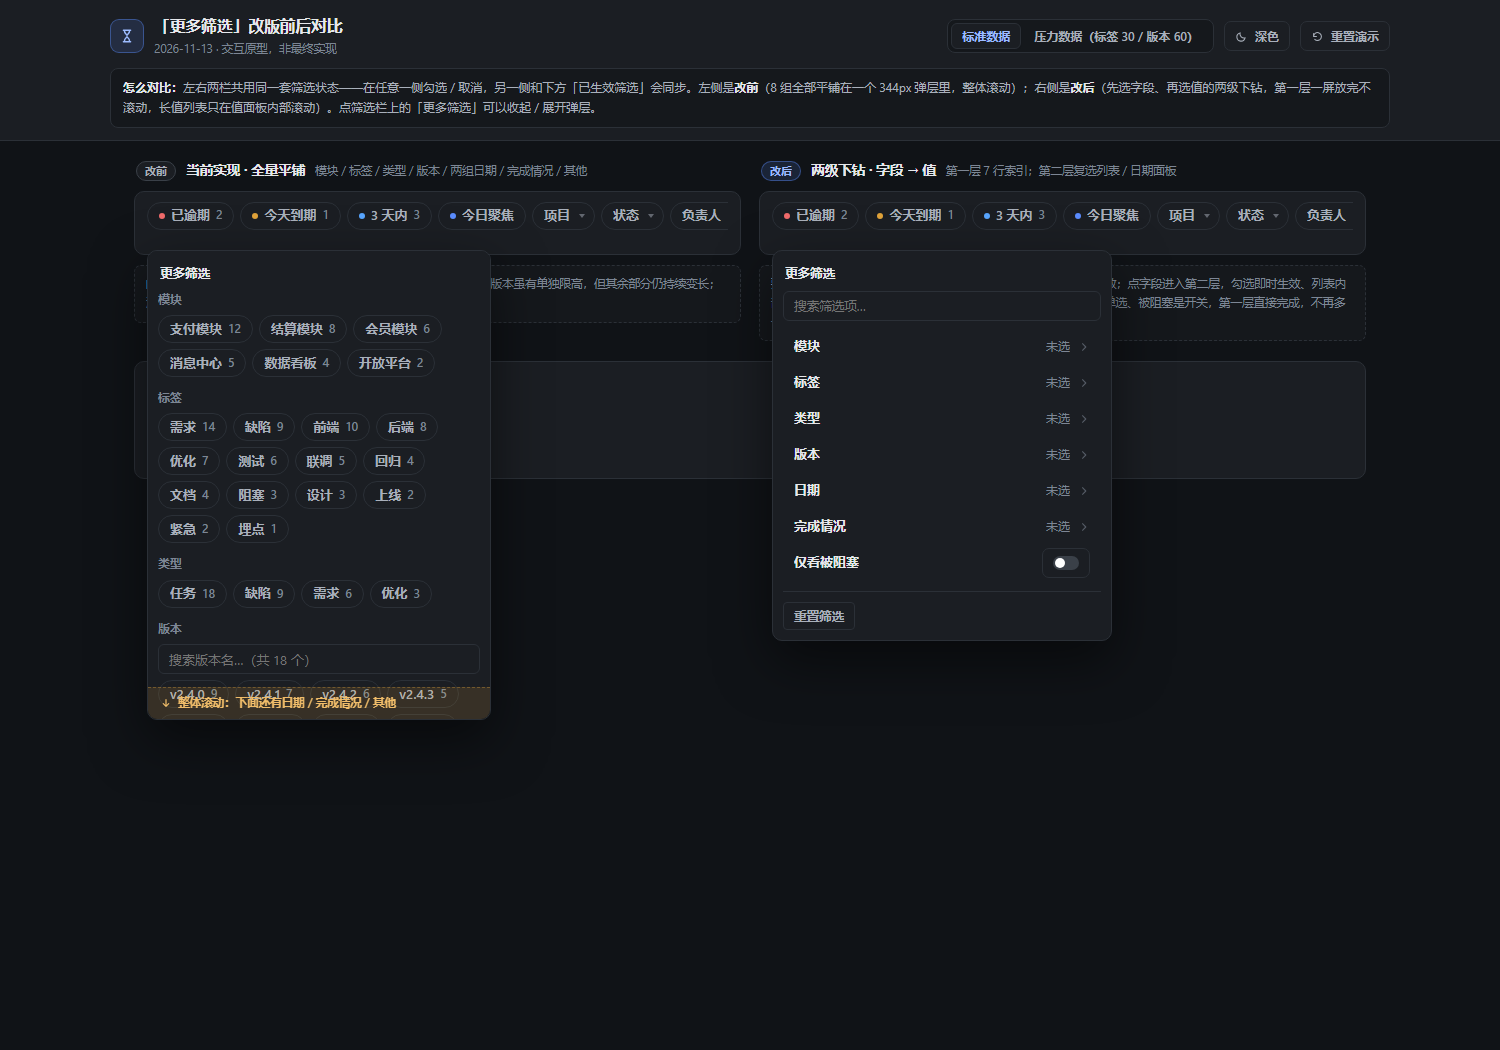
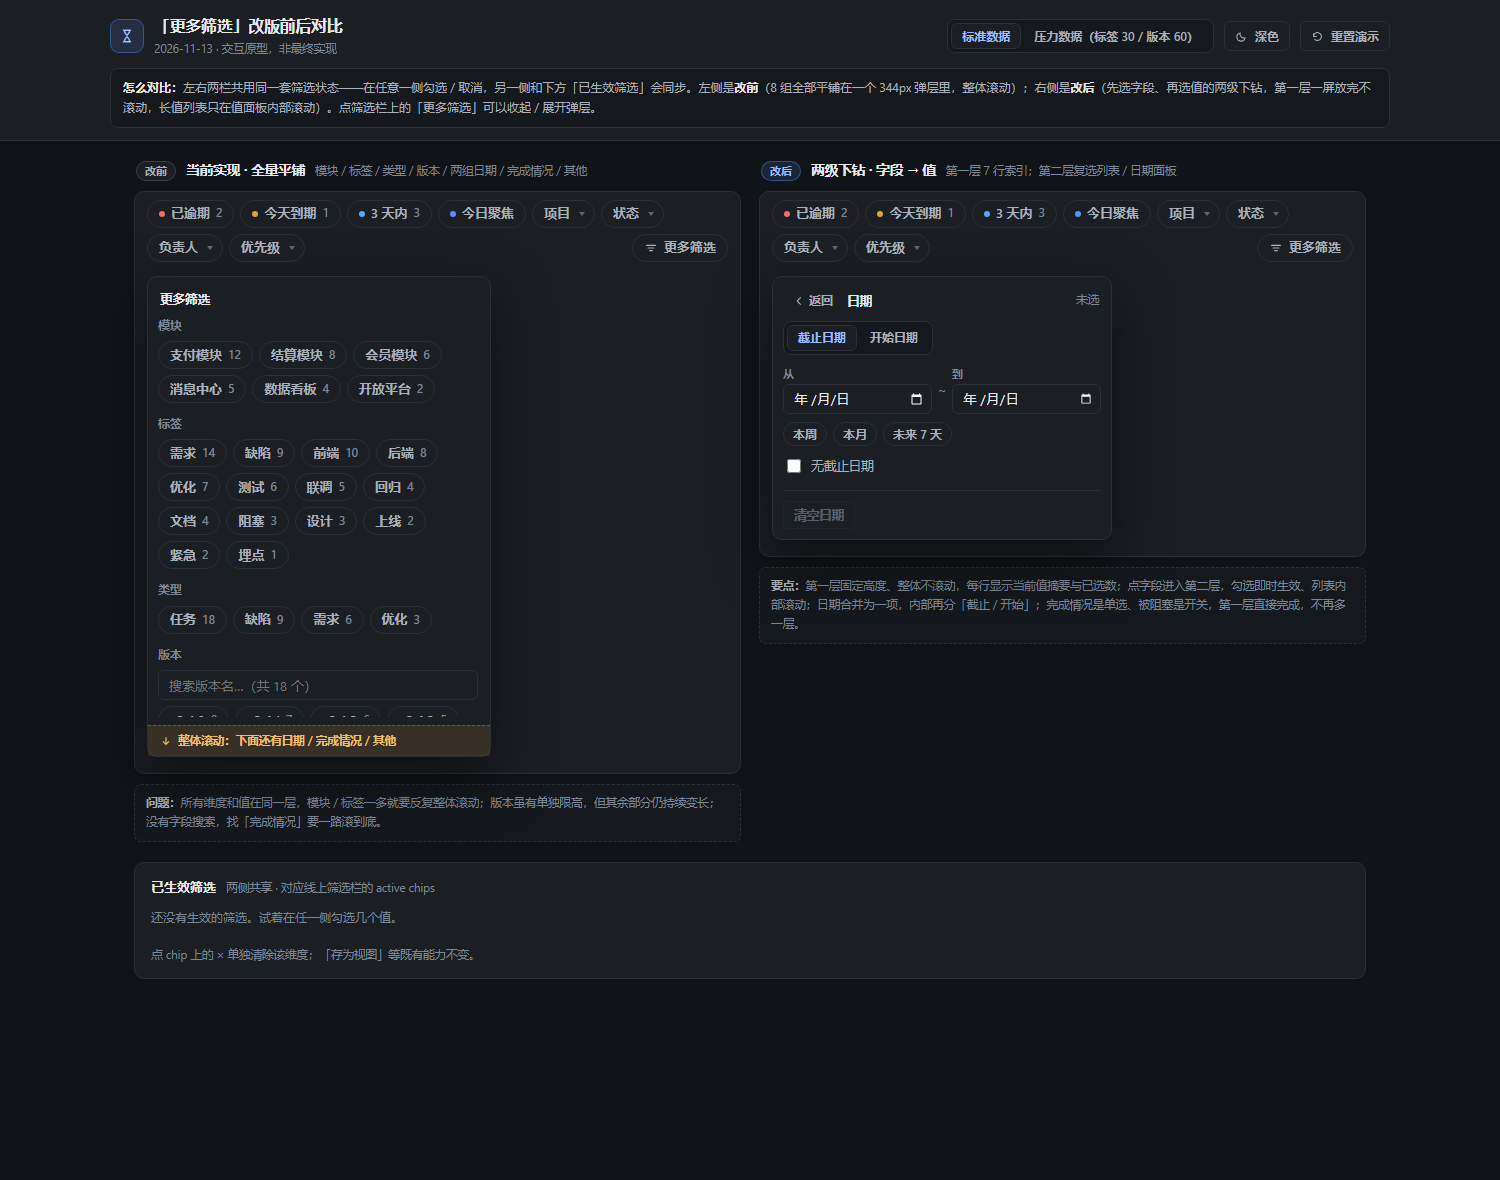
docs: 更多筛选原型改为面板内滚动
标题与重置按钮固定在面板上下两端，只让字段区滚动，避免长列表把重置按钮和滚动提示一起卷走；同步更新浅色、深色与侧栏面板截图。

diff --git a/docs/preview/more-filter-redesign-preview-2026-11-13.html b/docs/preview/more-filter-redesign-preview-2026-11-13.html
@@ -75,7 +75,7 @@ svg{flex:0 0 auto}
 
 /* ---------- 模拟筛选栏 ---------- */
 .stage{position:relative;background:var(--surface);border:1px solid var(--border);border-radius:var(--r-md);padding:0 12px 14px}
-.fbar{display:flex;align-items:center;gap:6px;height:48px;overflow:hidden;position:relative;z-index:10}
+.fbar{display:flex;align-items:center;gap:6px;min-height:48px;flex-wrap:wrap;padding:8px 0;position:relative;z-index:10}
 .fbar .grow{flex:1 1 auto}
 .chip{display:inline-flex;align-items:center;gap:6px;height:28px;padding:0 11px;border-radius:var(--r-pill);border:1px solid var(--border);background:var(--surface);font-size:13px;font-weight:550;color:var(--text-2);flex:0 0 auto;white-space:nowrap;transition:background var(--dur),border-color var(--dur),color var(--dur)}
 .chip:hover{background:var(--surface-hover);border-color:var(--border-strong);color:var(--text)}
@@ -403,8 +403,8 @@ function chipBtn(attr,val,label,count,on){
     label + ' <span class="n">' + count + '</span></button>';
 }
 function renderBefore(){
-  var pop = document.getElementById("popBefore");
-  var st = pop.scrollTop, q = (pop.querySelector("[data-mfverq]") || {value:""}).value;
+  var body = document.getElementById("popBeforeBody");
+  var st = body.scrollTop, q = (body.querySelector("[data-mfverq]") || {value:""}).value;
   var catChips = CATS.map(function(o){ return chipBtn("bcat",o.id,o.name,o.count,sel.cats.indexOf(o.id) !== -1); }).join("");
   var tagChips = TAGS().map(function(o){ return chipBtn("btag",o.id,o.name,o.count,sel.tags.indexOf(o.id) !== -1); }).join("");
   var typeChips = TYPES.map(function(o){ return chipBtn("btype",o.id,o.name,o.count,sel.types.indexOf(o.id) !== -1); }).join("");
@@ -417,7 +417,7 @@ function renderBefore(){
   var compChips = COMPLETIONS.map(function(o){
     return '<button class="chip" type="button" data-bcompletion="' + o[0] + '" aria-pressed="' + ((sel.completion || "") === o[0]) + '">' + o[1] + '</button>';
   }).join("");
-  pop.innerHTML =
+  body.innerHTML =
     '<div class="menu-title">更多筛选</div>' +
     '<div class="menu-field"><div class="group-label" style="margin-bottom:6px">模块</div><div class="mf-chips">' + catChips + '</div></div>' +
     '<div class="menu-field"><div class="group-label" style="margin-bottom:6px">标签</div><div class="mf-chips">' + tagChips + '</div></div>' +
@@ -433,27 +433,26 @@ function renderBefore(){
     '<div class="menu-field"><div class="group-label" style="margin-bottom:6px">完成情况</div><div class="mf-chips">' + compChips + '</div></div>' +
     '<div class="menu-field"><div class="group-label" style="margin-bottom:6px">其他</div><div class="mf-chips">' +
       '<button class="chip alert-today" type="button" data-bblocked aria-pressed="' + sel.blocked + '"><i class="cdot"></i>仅看被阻塞</button></div></div>' +
-    '<div class="menu-foot"><button class="btn" type="button" data-breset>重置筛选</button></div>' +
-    '<div class="scroll-hint" data-scrolldown><svg width="12" height="12" viewBox="0 0 20 20" fill="none" stroke="currentColor" stroke-width="2" stroke-linecap="round" stroke-linejoin="round"><path d="M10 4.5v11M5.5 11 10 15.5 14.5 11"/></svg>整体滚动：下面还有日期 / 完成情况 / 其他</div>';
-  pop.scrollTop = st;
+    '<div class="menu-foot"><button class="btn" type="button" data-breset>重置筛选</button></div>';
+  body.scrollTop = st;
   applyBeforeVersionSearch();
   updateScrollHint();
 }
 function applyBeforeVersionSearch(){
-  var pop = document.getElementById("popBefore");
-  var input = pop.querySelector("[data-mfverq]"); if(!input) return;
+  var body = document.getElementById("popBeforeBody");
+  var input = body.querySelector("[data-mfverq]"); if(!input) return;
   var q = input.value.trim().toLowerCase(), shown = 0;
-  pop.querySelectorAll("[data-bver]").forEach(function(b){
+  body.querySelectorAll("[data-bver]").forEach(function(b){
     var hit = !q || b.dataset.bver.toLowerCase().indexOf(q) !== -1;
     b.hidden = !hit; if(hit) shown++;
   });
-  var empty = pop.querySelector("[data-mfverempty]");
+  var empty = body.querySelector("[data-mfverempty]");
   if(empty) empty.hidden = shown > 0;
 }
 function updateScrollHint(){
-  var pop = document.getElementById("popBefore");
-  var hint = pop.querySelector("[data-scrolldown]"); if(!hint) return;
-  hint.hidden = pop.scrollHeight <= pop.clientHeight + 8;
+  var body = document.getElementById("popBeforeBody");
+  var hint = document.getElementById("popBefore").querySelector("[data-scrolldown]");
+  if(hint) hint.hidden = body.scrollHeight <= body.clientHeight + 8;
 }
 
 /* ==================== 渲染：改后 ==================== */
@@ -607,7 +606,7 @@ document.getElementById("popBefore").addEventListener("input", function(e){
   if(e.target.matches("[data-mfverq]")) applyBeforeVersionSearch();
   if(e.target.matches("[data-bdate]")){ sel[e.target.dataset.bdate] = e.target.value; sync(); }
 });
-document.getElementById("popBefore").addEventListener("scroll", updateScrollHint);
+document.getElementById("popBeforeBody").addEventListener("scroll", updateScrollHint);
 
 document.getElementById("popAfter").addEventListener("click", function(e){
   var t = e.target;
@@ -707,6 +706,10 @@ document.getElementById("btnResetAll").addEventListener("click", function(){ res
   if(qs.get("theme") === "dark"){
     document.body.dataset.theme = "dark";
     document.getElementById("btnTheme").setAttribute("aria-pressed","true");
+  }
+  if(qs.get("scale") === "stress"){
+    scale = "stress";
+    document.querySelectorAll("[data-scale]").forEach(function(x){ x.setAttribute("aria-selected", String(x.dataset.scale === "stress")); });
   }
   if(qs.get("pane")){
     afterPane = qs.get("pane");
